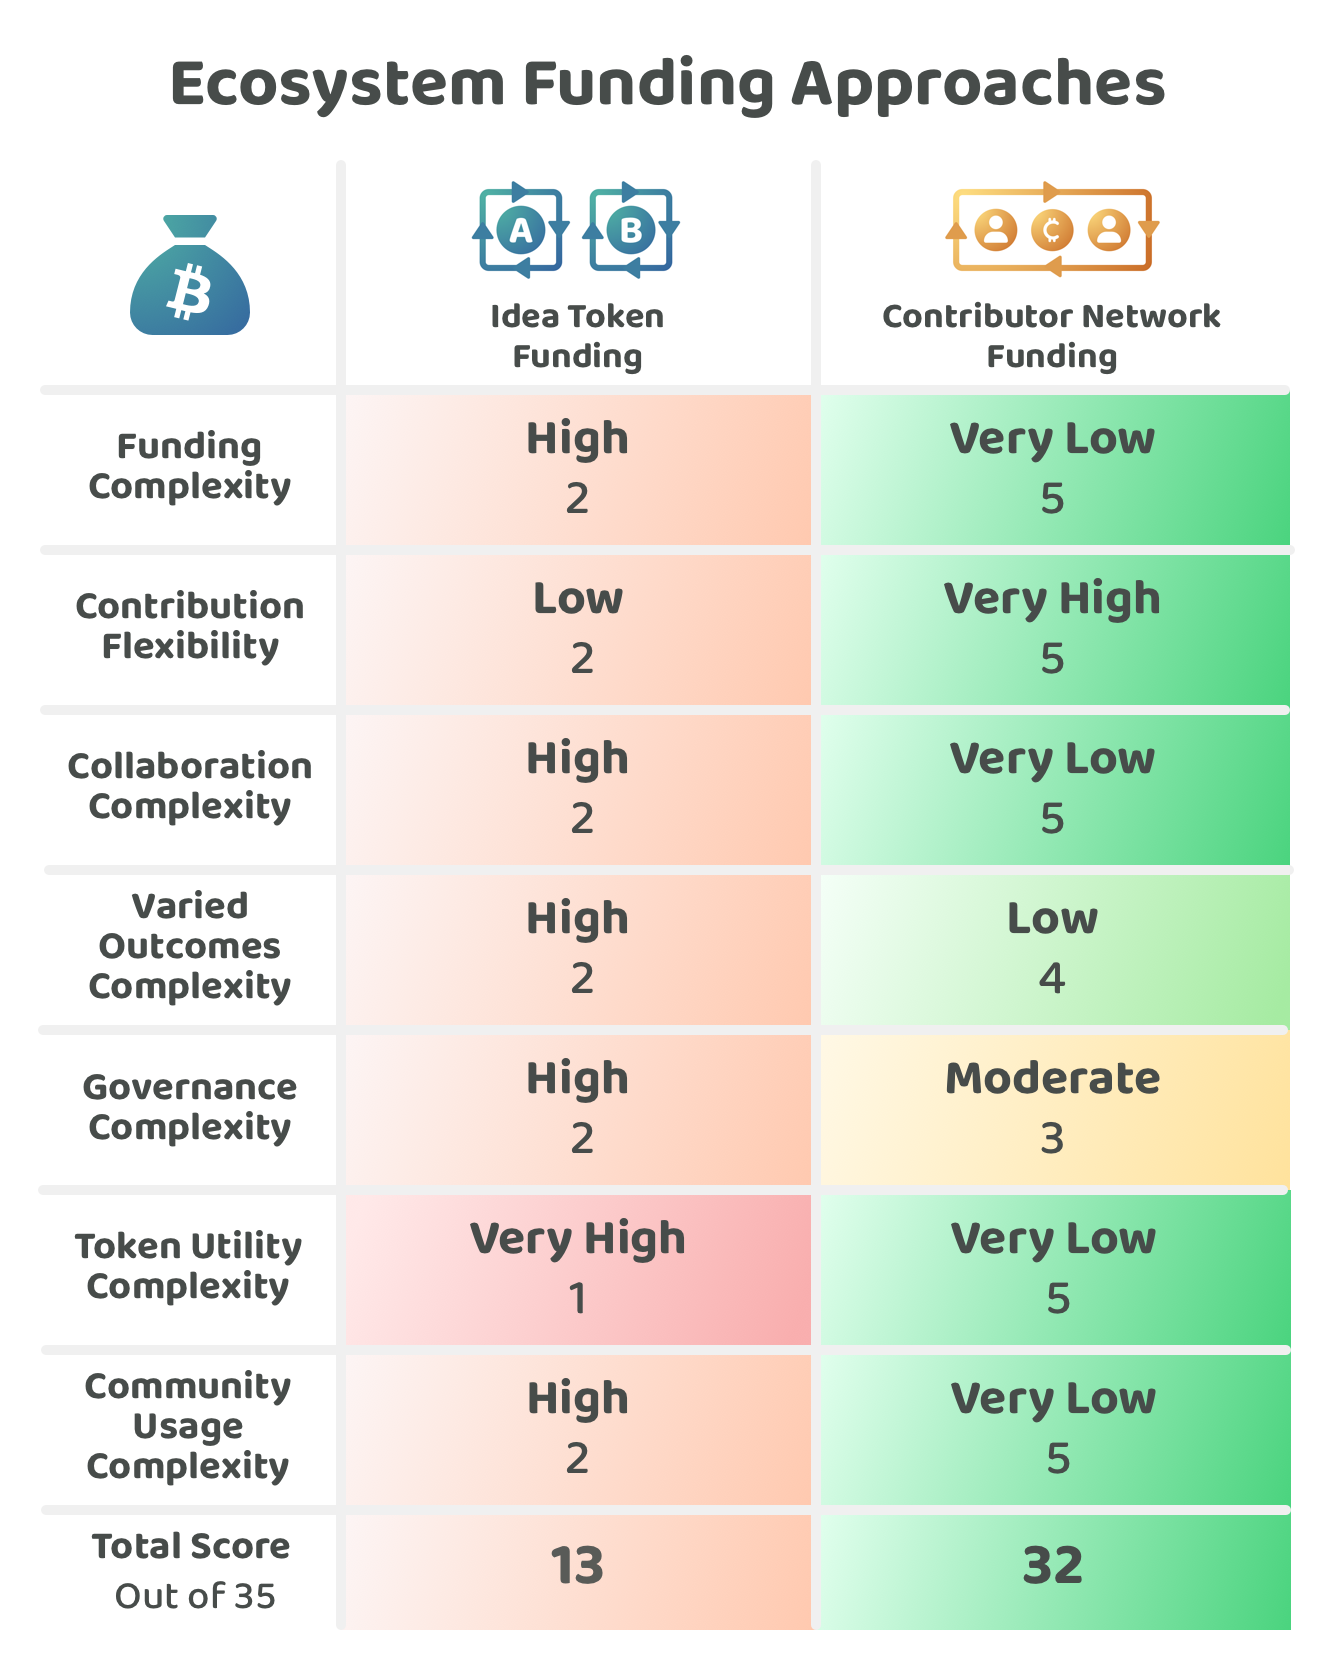
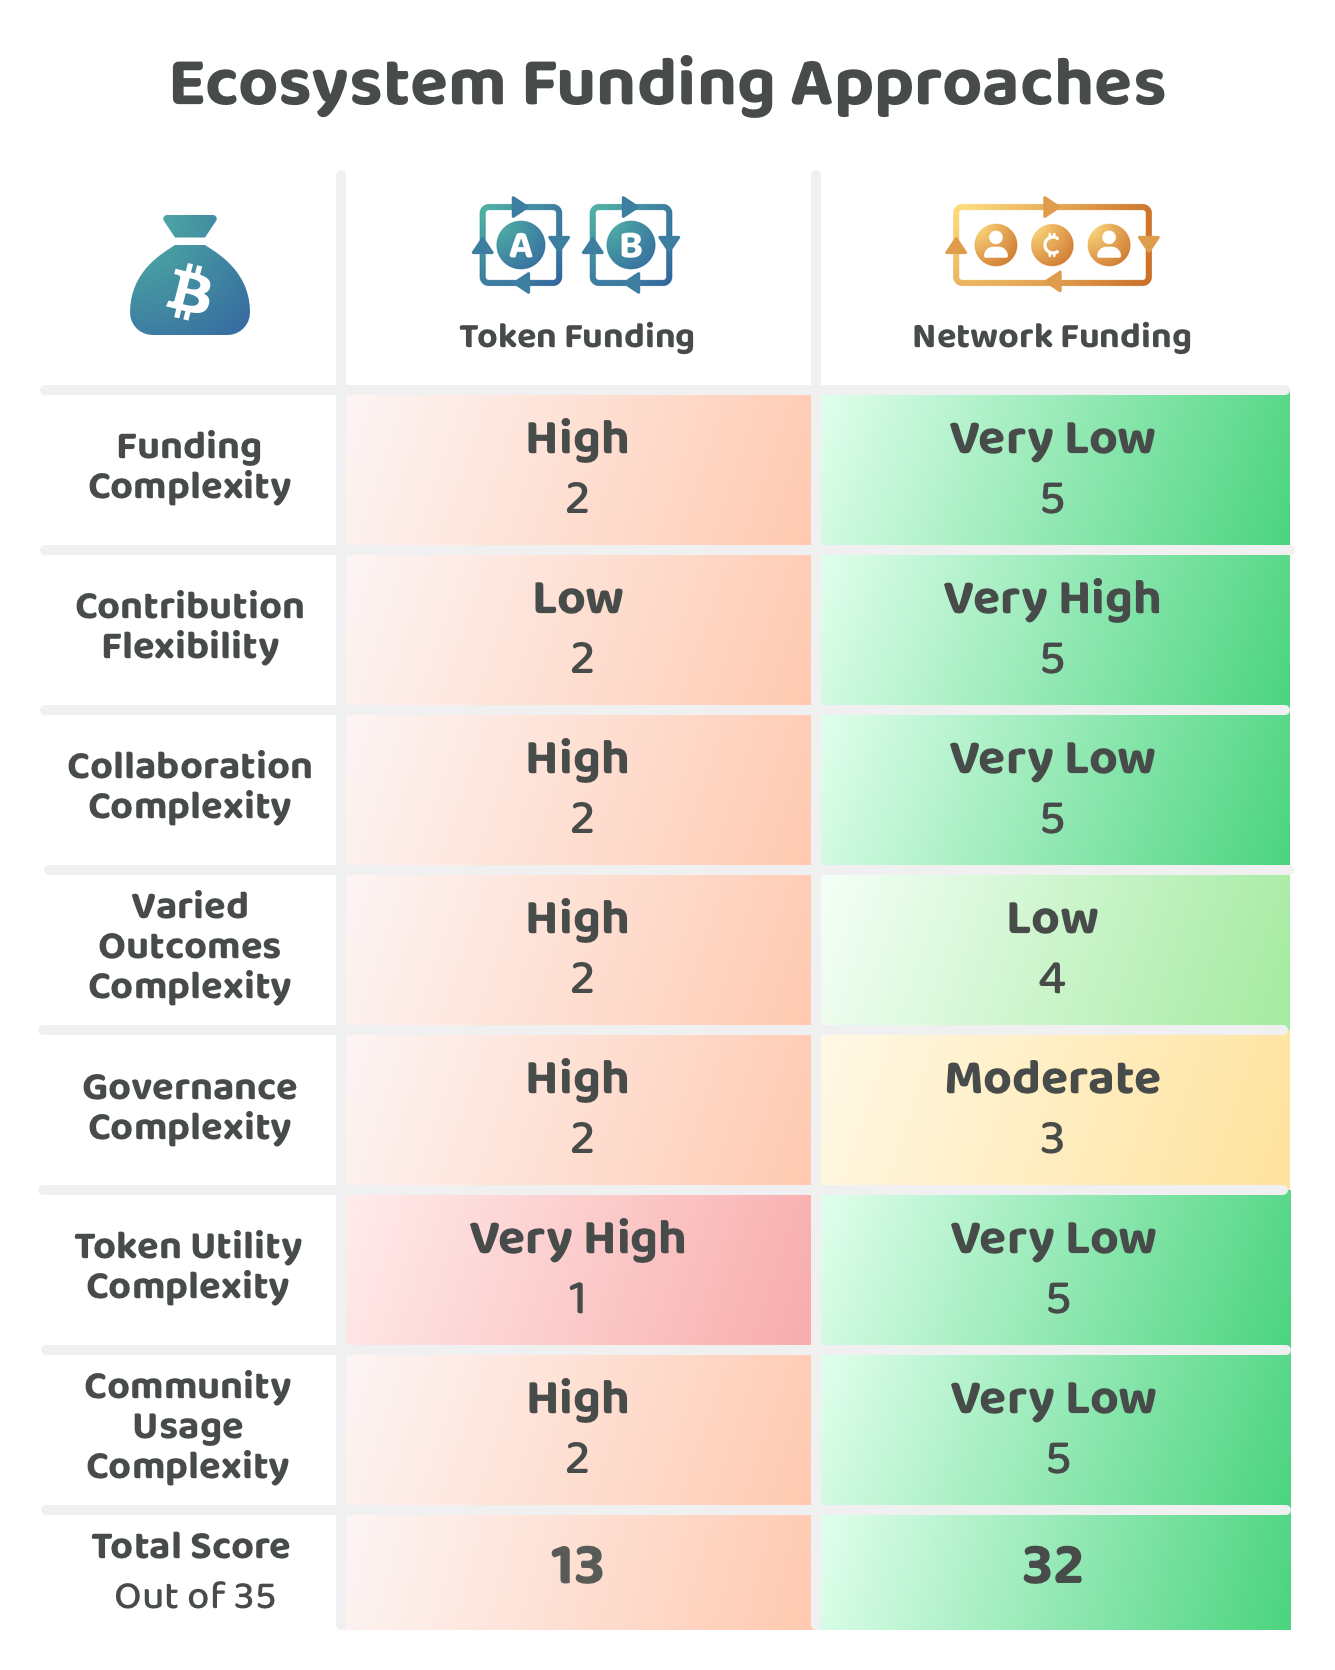
GITBOOK-79: change request with no subject merged in GitBook

Changed region(s): [[0.6757, 0.0934, 0.9213, 0.218], [0.3378, 0.0934, 0.5221, 0.218]]

diff --git a/funding/token-funding-vs-network-funding/README.md b/funding/token-funding-vs-network-funding/README.md
@@ -1,0 +1,79 @@
+---
+description: Comparing the differences between token funding and network funding
+---
+
+# Token funding vs network funding
+
+<figure><img src="../../.gitbook/assets/treasury-incentives-header.png" alt=""><figcaption></figcaption></figure>
+
+Ecosystem contributors need a sustainable way to fund the contribution efforts involved in executing impactful ideas. Two approaches that are worth comparing is token based funding, where projects raise investment from minting a project token and network funding, where a networks treasury can fund contributors directly to work on different ecosystem initiatives.
+
+Token based funding has been a popular way for projects to raise funding to pay for execution efforts across different Web3 ecosystems. In comparison, network funding exists in many ecosystems, however it commonly does not fund contributors directly. The suggested approach of funding contributors directly has emerged after analysing the different ways a networks treasury could operate a funding process. Open source contributor funding emerged as the most promising approach for compensating people that execute different initiatives in a Web3 network. This analysis will assume that the network funding process is adopting a contributor funding approach.
+
+
+
+**Circular economies**
+
+Both of these approaches can represent a circular economy. Network treasuries can generate income from network transaction fees or taxes and this can then help to fund initiatives that increase the amount of use cases and adoption. Tokens issued by projects can also introduce token based fees that users would pay when using their protocols and applications. These circular based economies can be an important part of making a sustainable model for generating income over the long term and this can help with maintaining and improving the network itself and any protocols and applications. To better understand why token funding might not always be very suitable as a funding approach it will be worth thinking about some of the ideas that can be implemented in Web3 ecosystems and whether they are suitable ideas that could be implemented as a circular economy:
+
+{% content-ref url="circular-economy-ideas.md" %}
+[circular-economy-ideas.md](circular-economy-ideas.md)
+{% endcontent-ref %}
+
+
+
+**Existing protocols and software library examples**
+
+Web3 ecosystems can benefit from considering different open source libraries that already exist in Web2 environments such as internet protocols, utility libraries and front end and back end frameworks. These considerations help with thinking about the importance of funding open source initiatives in Web3 ecosystems. These initiatives aren’t intended to generate a financial return on investment. Instead they are focused on generating impact for the ecosystem. Some Web2 protocols and software libraries examples to consider:
+
+{% content-ref url="web2-protocols-and-software-library-examples.md" %}
+[web2-protocols-and-software-library-examples.md](web2-protocols-and-software-library-examples.md)
+{% endcontent-ref %}
+
+
+
+## **Approaches for funding ecosystem initiatives**
+
+The two main funding approaches we're going to compare include:
+
+* [**Token funding**](token-funding.md) - Projects raise funding by minting a token that is then sold to investors
+* [**Network funding**](network-funding.md) - Projects raise funding through the networks treasury and funding pays for contributors directly. Contributors could work on one or multiple ideas at a time.
+
+To compare these ecosystem funding approaches a number of [factors have been considered](ecosystem-funding-factors-for-consideration.md) and then applied to each approach to try and determine any strengths and weaknesses of each one.
+
+<figure><img src="../../.gitbook/assets/ecosystem-funding-approaches.png" alt=""><figcaption></figcaption></figure>
+
+
+
+**Funding the network, protocol and application layers**
+
+These ecosystem funding approaches can also be considered within the context of the different layers of a Web3 ecosystem. The network and infrastructure is at the base which then enables a number of protocols that can be deployed on top of this network. Applications are then able to integrate and use any of the functionality that is made available by the network and protocols to create end user experiences. Read more:
+
+{% content-ref url="funding-the-network-protocol-and-application-layers.md" %}
+[funding-the-network-protocol-and-application-layers.md](funding-the-network-protocol-and-application-layers.md)
+{% endcontent-ref %}
+
+
+
+**Key takeaways**
+
+* **Greatly reduced complexities when using contributor network funding** - Token based funding introduces a number of complexities for the contributors who commit to minting a token for their project. Network contributor funding gives contributors a large amount of flexibility to execute one or multiple ideas and reduces the complexity of committing to making long term utility for a token that could result in a more complicated solution for the end user.
+* **Many ideas do not need a token -** Many of the software and non software ideas that were previously listed above do not need to create a token with a circular economy. Adding a token to projects that do not have a sufficient justification to do so can increase the amount of governance and economic complexity involved in executing their idea and add personal burden to the contributors to maintain this token over time even in situations where it might not be an impactful initiative to work on anymore. Tokens can make contributors more responsible and attached to a single idea they are working on even though there might be other more impactful ideas they could have worked on to more effectively benefit the ecosystem.
+* **Base network funding helps to produce more fully aligned incentives -** Incentives that get disbursed from the network's treasury produce more fully aligned incentives to fully support initiatives that could generate impact for the ecosystem. The wider community can support initiatives that best support the network and produce the biggest chance of growing and improving the ecosystem. Base network incentives help to remove the misaligned and partially aligned incentive problems due to the removal of token holders from existing projects being incentivised to defend their own interests at the expense of what might be best for the wider ecosystem.
+* **Base network funding is more important for funding maintenance and improvement of the network itself** - As highlighted in the analysis around funding the network, protocol and application layers, the closer the software is to the network and infrastructure the more important it is that the code is open source and verifiable by the communiy. It also becomes more important that the network can sustain these initiatives itself that help to ensure the network will remain competitive over the long term. Network funding is highly suitable for supporting network and protocol efforts over the long term.
+
+
+
+**Ecosystem funding approaches analysis**
+
+{% content-ref url="ecosystem-funding-factors-for-consideration.md" %}
+[ecosystem-funding-factors-for-consideration.md](ecosystem-funding-factors-for-consideration.md)
+{% endcontent-ref %}
+
+{% content-ref url="token-funding.md" %}
+[token-funding.md](token-funding.md)
+{% endcontent-ref %}
+
+{% content-ref url="network-funding.md" %}
+[network-funding.md](network-funding.md)
+{% endcontent-ref %}

diff --git a/funding/token-funding-vs-network-funding/web2-protocols-and-software-library-examples.md b/funding/token-funding-vs-network-funding/web2-protocols-and-software-library-examples.md
@@ -1,0 +1,51 @@
+---
+description: >-
+  Listing out example Web2 protocols and software libraries to consider when
+  thinking about future Web3 ecosystem protocols and software libraries
+---
+
+# Web2 protocols & software library examples
+
+Web3 ecosystems could develop a number of new protocols and software libraries that don’t require a token. These projects could be gradually improved and maintained over time. Listing some example Web2 protocols and software libraries can helps to provide some evidence that utility and governance based tokens might not be necessary for a large number of projects in Web3 ecosystems.
+
+
+
+**Network protocol examples**
+
+* [HTTP](https://en.wikipedia.org/wiki/HTTP)
+* [TCP/IP](https://en.wikipedia.org/wiki/Internet_protocol_suite)
+* [FTP](https://www.notion.so/TODO-8dd367f2ad0a4ccca555e781fef1215c?pvs=21)
+* [SMTP](https://en.wikipedia.org/wiki/Simple_Mail_Transfer_Protocol)
+
+
+
+**Software library examples**
+
+* [Lodash](https://lodash.com/) - Utility library
+* [Express](https://expressjs.com/) - Backend web framework
+* [React](https://react.dev/) - Frontend web framework
+
+
+
+**Advantages**
+
+* **Faster integration** - Users of these protocols and software libraries can adopt them immediately and integrate them into their own solutions helping to speed up their own development efforts.
+* **Modifiable** - Projects using these protocols and software libraries can take and modify the code to help with addressing any of their own specific use cases.
+* **Self determined upgrades** - Users will self determine when they want to upgrade from one version to another. If they disagree with a certain change or don’t want to allocate the effort to making an upgrade they could remain on the same version.
+* **Predictable** - Each version of these protocols and software libraries will usually come with a change log of what has changed since the last version. Documentation is also often available that outlines how the software works and how it can be used.
+* **No required governance participation** - Anyone using these protocols and software does not need to be involved with how they are developed or be worried about some governance decision suddenly affecting their own usage of the software. Users can let the contributors involved in improving those protocols and libraries handle what changes should be made based on community feedback. Contributors using this software would decide when to adopt any new releases. Teams looking to maximise their execution efficiency will commonly prefer to not be engaged in the oversight and governance of every open source project they use and instead let that responsibility be delegated to other contributors.
+* **No need to purchase a token** - Anyone using these protocols or software can express their preferences and opinions in the forums, code repositories and other available communication channels about what could be improved or what opportunities might exist. No token needs to be purchased for them to participate in providing feedback and having some form of influence over the direction of these protocols and software libraries. They are free to fork the code and make their own version if they need to!
+
+
+
+**Drawbacks**
+
+* **Fundraising to pay for contribution efforts** - These protocols and software libraries can be highly complex and require highly specialised professionals to help with maintaining and improving them over time. Funding can often be problematic for some projects due to the fact that the protocols and software libraries themselves are open source and free to use meaning they are not a revenue generating business. Many of these projects are reliant on large sponsors, often from corporations but also from governments and individuals.
+* **Excessive sponsorship influence** - The largest sponsors to these protocols and software libraries could easily have a larger amount of influence on the development direction of these solutions due to their financial involvement. Projects can benefit from having higher amounts of sponsorship diversity to better protect and represent the interests of the entire user base of these protocols and software libraries.
+
+
+
+**Key takeaways**
+
+* **Tokens are often not necessary** - Tokens could introduce more complexities for people that just want to use and integrate these existing open source protocols and software projects. If every protocol and software project added their own token the users of these solutions would then need to be concerned about the price of those tokens and how it impacts how they can use the solutions available and also be concerned with how token governance could impact their ongoing usage of these solutions. Utility tokens in some projects could end up introducing malicious actor complexities due to the risks that a small group of actors manages to get hold of a large amount of tokens to maliciously impact the usage or direction of a protocol, application or software library.
+* **Opportunity for addressing funding issues** - A big opportunity for Web3 ecosystems is that they have the ability to create circular economies that can provide ongoing financial support for building and sustaining open source protocols and software libraries. These emerging Web3 ecosystems massively benefit from having a robust and thriving open source ecosystem. Their entire user base can benefit from these initiatives in their own projects. Increasing the usage of network treasury funding could help with achieving this outcome of sustainable funding for open source development.

diff --git a/funding/token-funding-vs-network-funding/circular-economy-ideas.md b/funding/token-funding-vs-network-funding/circular-economy-ideas.md
@@ -1,0 +1,54 @@
+---
+description: >-
+  Listing out Web3 ecosystem ideas that could be considered when issuing a token
+  to create circular economies
+---
+
+# Circular economy ideas
+
+There are a number of software projects that could benefit from trying to create a circular economy through the usage of a token. However most of these ideas could also be implemented by using the networks treasury funding to sustain long term development. This means a token based funding approach would not be necessary.
+
+
+
+**Software ideas**
+
+The following ideas could create a circular economy with their own token, they could also charge fees to become self sufficient using the network coin and finally they could also be funded by the networks own funding process.
+
+* Stablecoin's - e.g. USD token
+* Security tokens - e.g. Bonds, stocks
+* Real world asset tokens - e.g. Tokens that represent commodities or a house, car etc.
+* Soulbound tokens - Tokens that are issued and designated to a single individual or entity and are not transferable.
+* Privacy tokens - A token could wrap an existing coin from a public chain and then make the transactions private.
+* DeFi protocols - DEX, borrowing & lending, synthetics, derivatives, CDPs
+* DAO, governance & identity tooling
+* Utility software libraries - For building smart contracts, transaction builders etc
+* Network infrastructure tools & libraries
+* Security reviews & code audits
+* Scalability solutions
+* Indexers, explorers & data oracles
+* Wallets
+
+
+
+**Other non software ideas**
+
+There are a number of non software ideas that could benefit from the networks treasury funding. These are commonly less suitable for being funded with the creation of a new token.
+
+* Research & analysis
+* Demos & onboarding
+* Articles & blog posts
+* Hackathons
+* Contributor mentorship
+* Community hubs
+* Workshops & courses
+* Ecosystem educational resources
+* Translation support
+* Standardisation efforts
+
+
+
+**Reasons a token might be useful or necessary**
+
+* **Token utility** - Ideas might need a token for unique use cases and functionality that they can't achieve with the networks own coin.
+* **Customisation of token** - Tokens can be customised for different use cases such as how the supply changes over time, what parts of the token are immutable or mutable or how that token can be used in different applications and environments.
+* **Token autonomy** - Having a separate token means the project team and surrounding community that use that token would have full autonomy to update and replace the token as needed for their projects specific use cases.

diff --git a/SUMMARY.md b/SUMMARY.md
@@ -59,13 +59,13 @@
 
 ## Funding
 
-* [Idea token vs contributor network funding](incentives/project-token-vs-base-network-circular-economies.md)
-  * [Circular economy ideas](funding/idea-token-vs-contributor-network-funding/circular-economy-ideas.md)
-  * [Web2 protocols & software library examples](funding/idea-token-vs-contributor-network-funding/web2-protocols-and-software-library-examples.md)
-  * [Ecosystem funding factors for consideration](funding/idea-token-vs-contributor-network-funding/ecosystem-funding-factors-for-consideration.md)
-  * [Idea token funding](funding/idea-token-vs-contributor-network-funding/idea-token-funding.md)
-  * [Contributor network funding](funding/idea-token-vs-contributor-network-funding/contributor-network-funding.md)
-  * [Funding the network, protocol and application layers](funding/idea-token-vs-contributor-network-funding/funding-the-network-protocol-and-application-layers.md)
+* [Token funding vs network funding](funding/token-funding-vs-network-funding/README.md)
+  * [Circular economy ideas](funding/token-funding-vs-network-funding/circular-economy-ideas.md)
+  * [Web2 protocols & software library examples](funding/token-funding-vs-network-funding/web2-protocols-and-software-library-examples.md)
+  * [Ecosystem funding factors for consideration](funding/token-funding-vs-network-funding/ecosystem-funding-factors-for-consideration.md)
+  * [Token funding](funding/token-funding-vs-network-funding/token-funding.md)
+  * [Network funding](funding/token-funding-vs-network-funding/network-funding.md)
+  * [Funding the network, protocol and application layers](funding/token-funding-vs-network-funding/funding-the-network-protocol-and-application-layers.md)
 
 ## 🔗 Links
 

diff --git a/funding/token-funding-vs-network-funding/network-funding.md b/funding/token-funding-vs-network-funding/network-funding.md
@@ -1,8 +1,8 @@
-# Contributor network funding
+# Network funding
 
 <div align="left"><figure><img src="../../.gitbook/assets/contributor-network-incentives-header.png" alt="" width="185"><figcaption></figcaption></figure></div>
 
-Contributor network funding is when the base network pays for contributors directly from the treasury. A network treasury that can fund contributors directly could have been established due to a community asset allocation from genesis or could exist due to a circular economy where transaction fees help to build up the treasury over time. Either the foundation behind the network or the coin holders of the ecosystem will be responsible for determining how the treasury assets are allocated.
+Network funding is when the base network pays for contributors directly from the treasury. A network treasury that can fund contributors directly could have been established due to a community asset allocation from genesis or could exist due to a circular economy where transaction fees help to build up the treasury over time. Either the foundation behind the network or the coin holders of the ecosystem will be responsible for determining how the treasury assets are allocated.
 
 <div align="left"><figure><img src="../../.gitbook/assets/contributor-network-incentives (1).png" alt="" width="375"><figcaption></figcaption></figure></div>
 
